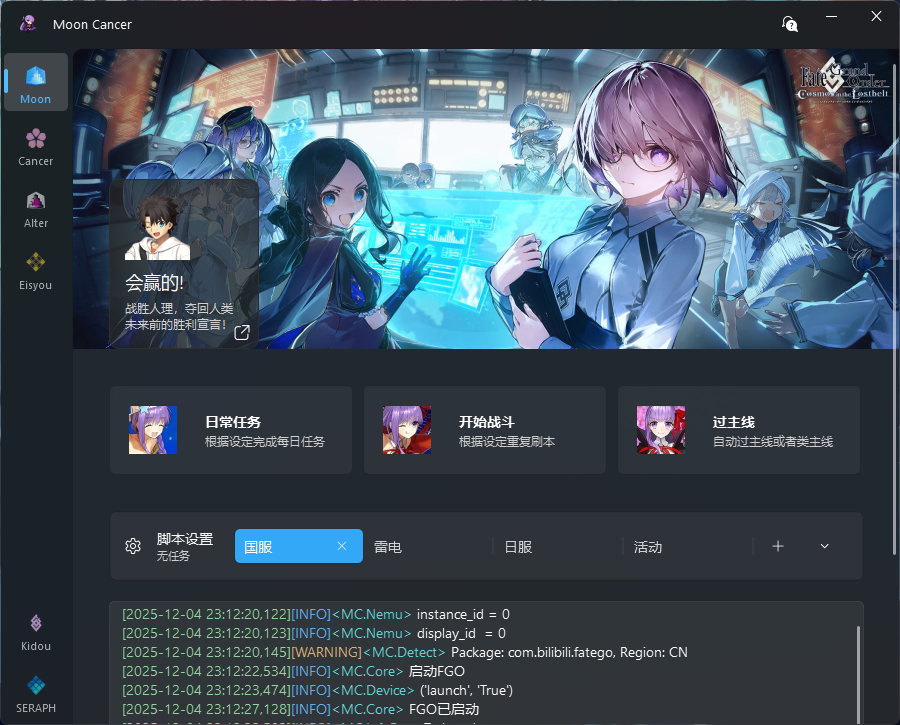
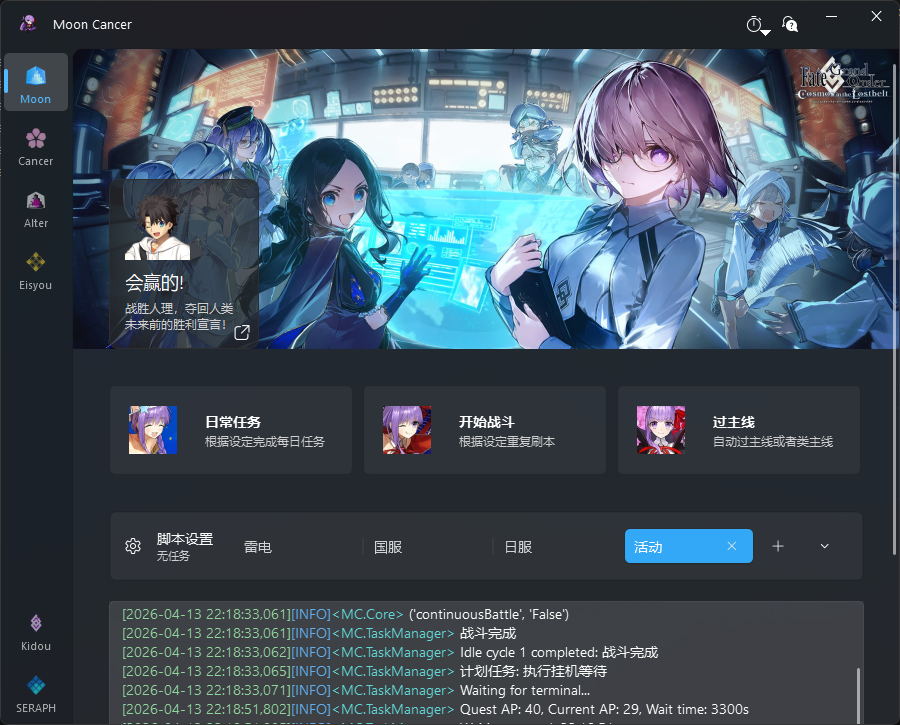
更新MoonCancer文档，新增v2.5.0更新记录及相关功能说明；更新图像资源。

diff --git a/src/content/posts/MoonCancer0.md b/src/content/posts/MoonCancer0.md
@@ -44,19 +44,23 @@ draft: false
 - 运行程序根目录的`Updater.exe`
 ## 使用说明
 - 先同时运行模拟器和Moon Cancer，在Seraph(设置)中先选中你的模拟器类型，然后点搜索，成功的话选择对应的设备，下面的设置就会自动设置完成，日服或渠道服还需要更改服务器类型然后点设置更改包名。具体设置说明请看[连接设置](#连接设置)，然后根据需求设置好[脚本设置](../mooncancer1#脚本设置)就可以点击[对应功能](../mooncancer1#基本功能)运行脚本了
-- 右上角的帮助图标可以打开`帮助`弹窗，有问题随时可以查看，如果觉得有帮助可以赞助我一点。<br>
-- 在启动任意任务后会出现`暂停`按钮，可以暂停执行中的任务。点击下面链接可查看每个界面具体说明：<br>
+- 点击下面链接可查看每个界面具体说明：<br>
 [Moon界面说明](../mooncancer1)<br>
 [Cancer界面说明](../mooncancer2)<br>
 [Alter界面说明](../mooncancer3)<br>
 [Eisyou界面说明](../mooncancer4)<br>
+### 标题栏说明
+- 右上角的帮助图标可以打开`帮助`弹窗，有问题随时可以查看点击跳转对应的说明书，如果觉得有帮助可以赞助我一点。<br>
+- 在启动任意任务后会出现`暂停`按钮，可以暂停执行中的任务。<br>
+![planmeun](../../assets/images/mooncaner/planmeun.png)
+- 任意时候都可以点击计划按钮选择计划或取消计划，关机会在任务结束后关机，休眠同理；挂机会在任务结束后，挂机等待体力够进入当前关卡，建议使用时开启`清理剩余体力`选项<br>
 
-## 模拟器设置
+### 模拟器设置
 - 使用其他模拟器理论上可行，但推荐MuMu或雷电，这两个适配了高速连接，本身玩fgo也比较稳定，MuMu现在官网已经只能下载到新版了，想用旧版这里有历史版本[MuMu模拟器历史版本](https://www.cnblogs.com/wutou/p/18165628)
 - 模拟器用16：9的分辨率，1280x720起步，分辨率过低可能无法识别，最重要的mumu模拟器关闭后台保活，其他模拟器可能也有一些导致无法正常截图的设置
 ![mooncanermumusetting](../../assets/images/mooncaner/mumusetting.png)
 
-## 连接设置
+### 连接设置
 :::important
 请在设置之前打开要使用的模拟器，多开的情况要保证目标模拟器先启动，不然修改数值会失败
 :::
@@ -69,6 +73,7 @@ draft: false
 :::
 - `模拟器位置`是用来启动模拟器的命令，一般选择模拟主器程序的位置就行了，也可也自己加参数，自动搜索的是带参数的
 - `虚拟机进程名称`是读取内存的目标，是修改的基础，**没填或没填对脚本没法正常工作**，默认就是mumu模拟器的
+- `推理引擎`设置OCR推理引擎，onnxruntime内存占用少，openvino速度快占用内存多，如果没有问题建议朗读时追求速度再切换openvino
 - `连接等待时间`如果自动启动模拟器时，模拟器启动时间过长导致没连上，可以增加等待时间
 - 剩下的设置没啥好讲的了，自己看着选
 :::tip
@@ -77,7 +82,7 @@ draft: false
 ![taskmanager](../../assets/images/mooncaner/taskmanager.png)
 :::
 
-## 游戏内设置
+### 游戏内设置
 - 记得打开**筛选**（我该不会是最后一个知道的吧），**加快敌人消失速度**，**战斗二倍速**。筛选可以减少找到目标礼装的时间，不过现在羁绊礼装太多，午茶反而排到羁绊礼装的最后面去了
 ![filter](../../assets/images/mooncaner/filter.png)
 

diff --git a/src/content/posts/MoonCancer.md b/src/content/posts/MoonCancer.md
@@ -13,6 +13,12 @@ draft: false
 [Cancer界面说明](../mooncancer2)<br>
 [Alter界面说明](../mooncancer3)<br>
 [Eisyou界面说明](../mooncancer4)<br>
+## 2026年4月13日v2.5.0
+1.新增计划任务，支持关机、休眠、挂机<br>
+2.新增OCR推理引擎切换<br>
+3.优化消息通知，修复win10没有正常通知的问题<br>
+4.优化界面效果，修复部分异常<br>
+5.优化战斗结果处理逻辑
 ## 2026年3月22日v2.4.10
 1.优化助战选择，不存在加成礼装时提前刷新<br>
 2.连续战斗增加茶壶检测<br>
